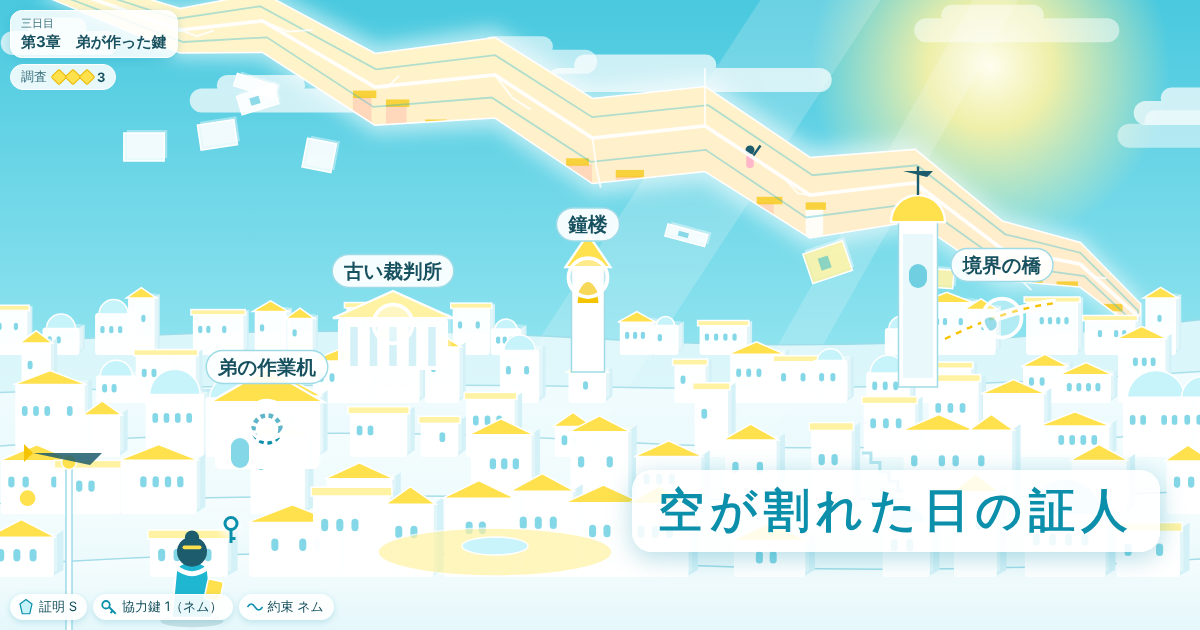
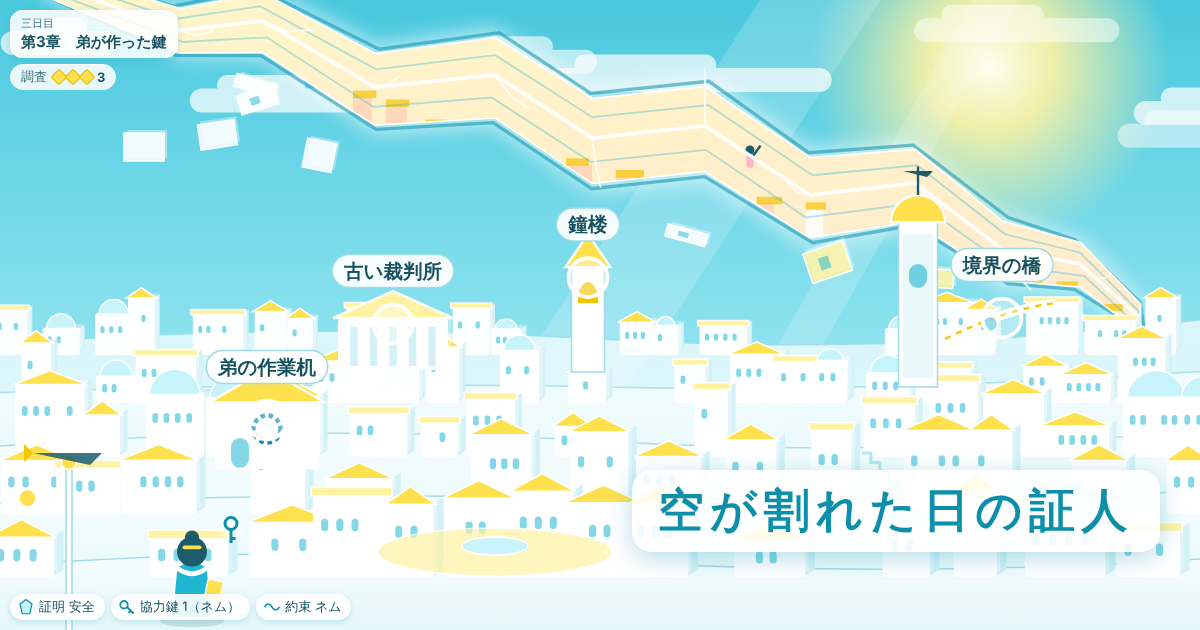
[GAME] 空が割れた日の証人（試作）：初見テストとレビューの指摘を反映
Claude-Session: https://claude.ai/code/session_01MokQnqxTndg3vLapSAqNRj

diff --git a/site/games/fractured-sky-witness/game.js b/site/games/fractured-sky-witness/game.js
@@ -67,7 +67,7 @@ function stageK() {
 function drawScene() {
   const key = S.phase === 'end' ? `vista${S.support.length}${S.coop.length}${S.broken}` : `ch${Math.min(S.ch, 3)}`;
   if (key !== bgKey) {
-    $('bgLayer').innerHTML = S.phase === 'end' ? buildVista({ support: S.support.length, coop: S.coop.length, broken: S.broken }) : buildBackground(S.ch);
+    $('bgLayer').innerHTML = S.phase === 'end' ? buildVista({ support: S.support.length, coop: S.coop.length, broken: S.broken, broken: S.broken }) : buildBackground(S.ch);
     bgKey = key;
   }
   if (S.phase === 'end') { $('ovLayer').innerHTML = ''; return; }
@@ -81,9 +81,9 @@ function drawScene() {
   }));
   $('ovLayer').innerHTML = buildOverlay({
     ch: S.ch, k: stageK(), padX: padX(), sites,
-    falling: S.ch === 1, support: S.support.length, coop: S.coop.length,
+    falling: S.ch === 1, support: S.support.length, coop: S.coop.length, broken: S.broken,
     stamp: S.phase === 'after' && S.choices[S.ch] === 'H',
-    yuiX: 128,
+    yuiX: Math.max(128, padX() + 46),
   });
   for (const el of $('ovLayer').querySelectorAll('[data-site]')) {
     const id = el.dataset.site;
@@ -107,7 +107,7 @@ function drawHud() {
 
   const chips = [];
   const proofs = Object.values(S.proofs);
-  if (proofs.length) chips.push(`<span class="chip">${ICON.proof}証明 ${proofs.join('・')}</span>`);
+  if (proofs.length) chips.push(`<span class="chip">${ICON.proof}証明 ${proofs.map((p) => PROOFS[p].name.replace('の証明', '')).join('・')}</span>`);
   if (S.support.length) chips.push(`<span class="chip">${ICON.flag}支持旗 ${S.support.length}</span>`);
   if (S.coop.length) chips.push(`<span class="chip">${ICON.key}協力鍵 ${S.coop.length}（${S.coop.map((k) => L.personName(k.from)).join('・')}）</span>`);
   const live = S.promises.filter((p) => !p.broken);
@@ -169,7 +169,7 @@ function drawTalk() {
   const done = shown >= lines.length;
   const lbl = nextLabel();
   const nb = $('nextBtn');
-  nb.hidden = done && !lbl;
+  nb.hidden = (done && !lbl) || (S.phase === 'intro' && S.ch === 1);
   nb.textContent = done ? (lbl || '') : '続きを読む ▸';
   if (S.phase === 'intro' && S.ch === 1 && done) {
     box.insertAdjacentHTML('beforeend', '<li class="narr tip"><b>▲ 上の絵の、光る空のかけらをタップ</b></li>');
@@ -198,6 +198,7 @@ function drawInv() {
   const g = settings.hint ? L.guide(S) : null;
   $('sites').innerHTML = L.siteList(S).map((x) => `<button type="button" class="site ${g?.site === x.id ? 'hinted' : ''}" data-site-btn="${x.id}" ${x.visited || x.locked ? 'disabled' : ''}>${x.visited ? '✓ ' : ''}${esc(x.name)}<small>${x.visited ? `${esc(EVIDENCE[x.ev].name)}を得た` : x.locked ? 'まずは光るかけらから' : '調べる'}</small></button>`).join('');
   const cf = $('visitConfirm');
+  $('sites').before(cf);
   if (pendingSite) {
     const site = L.siteList(S).find((x) => x.id === pendingSite);
     $('visitText').innerHTML = `<b>${esc(site.name)}</b>を調べる？<br>調査 残り ${S.actionsLeft} → ${S.actionsLeft - 1}。調べた場所には戻れない。`;
@@ -207,7 +208,7 @@ function drawInv() {
 
 function drawTrial() {
   const g = settings.hint ? L.guide(S) : null;
-  $('testis').innerHTML = L.testimonies(S).map((t) => testiHtml(t, { button: true, selected: sel.t === t.id, hinted: g?.testimony === t.id && sel.t !== t.id })).join('');
+  $('testis').innerHTML = L.testimonies(S).map((t) => testiHtml(t, { button: true, selected: sel.t === t.id, hinted: g?.testimony === t.id && !sel.t })).join('');
   const slots = document.querySelectorAll('.slot');
   slots.forEach((b, i) => {
     const id = sel.slots[i];
@@ -225,8 +226,9 @@ const OPT_ICON = { P: ICON.flag, Q: ICON.key, H: ICON.stamp };
 function drawChoice() {
   const opts = L.choiceOptions(S);
   const owner = L.secretOwner(S);
+  const sec = S.pairId ? SECRETS[S.secrets.at(-1)] : null;
   $('choiceAsk').innerHTML = S.pairId
-    ? `<b>${esc(L.personName(owner))}の秘密</b>を知った。この真実を、誰に伝える？`
+    ? `<b>${esc(L.personName(owner))}（${esc(PEOPLE[owner].role)}）の秘密「${esc(sec.title)}」</b>を知った。<br><small>${esc(sec.text)}</small><br>この真実を、誰に伝える？<br><small class="goal">支持旗・協力鍵・保留印は、四日目に選べる結末を決める。</small>`
     : '証明できなかった。記録を保留して先へ進もう。';
   $('opts').innerHTML = opts.map((o) => `<button type="button" class="opt ${pick === o.id ? 'sel' : ''}" data-opt="${o.id}" ${o.allowed ? '' : 'disabled'} aria-pressed="${pick === o.id}">
     <span class="ic" style="background:${o.id === 'P' ? '#fff3a3' : o.id === 'Q' ? '#c6f1f8' : '#eef6f8'}">${OPT_ICON[o.id]}</span>
@@ -283,6 +285,7 @@ function onSite(id) {
   pendingSite = id;
   render();
   $('visitYes').focus({ preventScroll: true });
+  $('visitConfirm').scrollIntoView({ block: 'nearest', behavior: settings.reduce ? 'auto' : 'smooth' });
 }
 
 function doVisit(id) {
@@ -343,11 +346,10 @@ function onPresent() {
     busy = true;
     slotsEl.classList.remove('ng'); slotsEl.classList.add('ok');
     sfx.connect();
-    setTimeout(() => { busy = false; slotsEl.classList.remove('ok'); render(); }, settings.reduce ? 50 : 750);
+    setTimeout(() => { busy = false; slotsEl.classList.remove('ok'); sel = { t: null, slots: [null, null] }; render(); }, settings.reduce ? 50 : 750);
   } else {
     slotsEl.classList.remove('ok'); void slotsEl.offsetWidth; slotsEl.classList.add('ng');
     sfx.miss();
-    sel.slots = [null, null];
     render();
   }
 }

diff --git a/site/games/fractured-sky-witness/logic.js b/site/games/fractured-sky-witness/logic.js
@@ -150,7 +150,7 @@ export function choiceOptions(s) {
       effects: [
         `市民の支持旗 ${s.support.length}→${s.support.length + 1}`,
         ...(s.coop.length ? [`協力鍵 ${s.coop.length}→0`] : []),
-        ...live.map((p) => `${personName(p.to)}との約束を破る（取り消せない）`),
+        ...live.map((p) => `${personName(p.to)}との約束を破る（取り消せない）：秘密を広場で話す人だと知られ、協力をやめられる`),
         ...(live.length || s.coop.length ? ['橋の結末に影響'] : []),
       ],
       warn: live.length > 0 || s.coop.length > 0,
@@ -158,7 +158,7 @@ export function choiceOptions(s) {
     {
       id: 'Q', name: '本人にだけ伝える', sub: owner ? `${ownerName}の秘密を守ると約束する` : '',
       allowed: proven, why: proven ? '' : '証明がないので、公開も約束もできない',
-      effects: [`協力鍵 ${s.coop.length}→${s.coop.length + 1}（${ownerName}から）`, `${ownerName}と約束する`, '市民の支持は増えない'],
+      effects: [`協力鍵 ${s.coop.length}→${s.coop.length + 1}（${ownerName}から）`, `${ownerName}と秘密を守る約束をする（あとで公開すると破れる）`, '市民の支持は増えない'],
       warn: false,
     },
     {
@@ -262,7 +262,8 @@ export function guide(s) {
     if (!s.visited.length) return { site: 'plaza' };
     if (!s.visited.includes('tower')) return { site: 'tower' };
   }
-  if (s.phase === 'trial' && s.evidence.includes('e1') && s.evidence.includes('e2')) return { testimony: 't1a', evs: ['e1', 'e2'] };
+  // 審理：まず証言だけ示し、1回外したら証拠の組も示す
+  if (s.phase === 'trial' && s.evidence.includes('e1') && s.evidence.includes('e2')) return { testimony: 't1a', evs: s.attemptsLeft < CONFIG.attempts ? ['e1', 'e2'] : [] };
   return null;
 }
 
@@ -275,19 +276,19 @@ export function endingOutlook(s) {
   return ENDINGS.map((e) => {
     let status; let why;
     if (e.id === 'sew') {
-      if (!hasS) { status = 'closed'; why = '第1章で安全の証明(S)を得ていない'; }
-      else if (s.holds.length) { status = 'open'; why = 'S と保留印がそろっている'; }
+      if (!hasS) { status = 'closed'; why = '第1章で「安全の証明」を得ていない'; }
+      else if (s.holds.length) { status = 'open'; why = '安全の証明と保留印がそろっている'; }
       else { status = 'near'; why = '第4章で保留すれば届く'; }
     } else if (e.id === 'bridge') {
       if (s.broken) { status = 'closed'; why = '約束を破ったので、橋は渡れない'; }
-      else if (!hasB) { status = 'closed'; why = '第3章で橋の証明(B)を得ていない'; }
-      else if (coop >= 2) { status = 'near'; why = `協力鍵${coop}つ。第4章で橋の承認(J)を立証すれば届く`; }
-      else if (coop === 1) { status = 'near'; why = '協力鍵1つ。第4章でJを立証し、もう1人と約束すれば届く'; }
+      else if (!hasB) { status = 'closed'; why = '第3章で「橋の証明」を得ていない'; }
+      else if (coop >= 2) { status = 'near'; why = `協力鍵${coop}つ。第4章で「橋の承認」を立証すれば届く`; }
+      else if (coop === 1) { status = 'near'; why = '協力鍵1つ。第4章で「橋の承認」を立証し、もう1人と約束すれば届く'; }
       else { status = 'closed'; why = '協力鍵が足りない'; }
     } else if (e.id === 'record') {
-      if (sup >= 2) { status = 'near'; why = `支持旗${sup}つ。第2章のT と第4章の記録の承認(R)で届く`; }
-      else if (sup === 1) { status = 'near'; why = '支持旗1つ。第4章でもう一度公開すれば届く（T と R も必要）'; }
-      else { status = 'far'; why = '支持旗0。第2章と第4章で公開すれば届く（試作では第2章を省略）'; }
+      if (sup >= 2) { status = 'near'; why = `支持旗${sup}つ。第2章の「真相」と第4章の「記録の承認」を立証すれば届く`; }
+      else if (sup === 1) { status = 'near'; why = '支持旗1つ。第4章でもう一度公開すれば届く（第2章の「真相」と第4章の「記録の承認」も必要）'; }
+      else { status = 'far'; why = 'あなたの選択：ここまで一度も公開していない。第2章（試作では省略）と第4章で公開すれば届く'; }
     } else { status = 'open'; why = 'いつでも選べる'; }
     return { ...e, status, why };
   });

diff --git a/site/games/fractured-sky-witness/scene.js b/site/games/fractured-sky-witness/scene.js
@@ -66,7 +66,9 @@ function sky(other) {
   s += `<g opacity=".18"><polygon points="520,0 600,0 300,460 220,460" fill="#ffffff"/><polygon points="660,0 690,0 430,460 400,460" fill="#ffffff"/></g>`;
   // 裂け目
   s += `<polygon points="${crackPoly(34, 38, 4, 5)}" fill="#ffffff" opacity=".55" filter="url(#fGlow)"/>`;
+  s += `<polygon points="${crackPoly(30, 34, 10, 4)}" fill="none" stroke="${C.cyanDeep}" stroke-opacity=".55" stroke-width="2.2"/>`;
   s += `<polygon points="${crackPoly(26, 30)}" fill="url(#gCrack)" stroke="#ffffff" stroke-width="2"/>`;
+  s += `<polygon points="${crackPoly(9, 10, 3, 6)}" fill="${C.lemon2}" opacity=".75"/>`;
   if (other) s += otherCity();
   s += `<polygon points="${crackPoly(14, 16, 6, 9)}" fill="none" stroke="${C.cyan}" stroke-opacity=".35" stroke-width="1.2"/>`;
   s += `<polyline points="${CRACK.map(([x, y]) => `${x},${y}`).join(' ')}" fill="none" stroke="#ffffff" stroke-width="2.5" opacity=".9"/>`;
@@ -323,10 +325,11 @@ export function buildOverlay(view) {
     s += `</g>`;
   }
   // ユイ と 協力鍵
-  s += yui(view.yuiX ?? 96, 392, 1.05);
+  s += yui(view.yuiX ?? 96, 392, 1.05 * Math.min(1.4, view.k || 1));
   for (let i = 0; i < view.coop; i++) {
     s += `<g class="keyfx" transform="translate(${(view.yuiX ?? 96) + 26 + i * 18} 372)"><circle r="7" fill="#fff" opacity=".7" filter="url(#fSoft)"/><circle cx="0" cy="-3" r="4" fill="none" stroke="${C.cyanDeep}" stroke-width="2"/><line x1="0" y1="1" x2="0" y2="10" stroke="${C.cyanDeep}" stroke-width="2"/><line x1="0" y1="7" x2="3" y2="7" stroke="${C.cyanDeep}" stroke-width="2"/></g>`;
   }
+  if (view.broken) s += `<g transform="translate(${(view.yuiX ?? 96) - 34} 380)"><path d="M -16 0 Q -10 -9 -3 -2" fill="none" stroke="#e5484d" stroke-width="2.6"/><path d="M 3 2 Q 10 9 16 0" fill="none" stroke="#e5484d" stroke-width="2.6"/></g>`;
   if (view.stamp) s += `<g class="stampfx" transform="translate(150 360) rotate(-12)"><rect x="-26" y="-14" width="52" height="28" rx="4" fill="none" stroke="${C.cyanDeep}" stroke-width="2.5"/><text x="0" y="6" text-anchor="middle" fill="${C.cyanDeep}" font-size="15" font-weight="700">保留</text></g>`;
   return s;
 }

diff --git a/site/games/fractured-sky-witness/story.js b/site/games/fractured-sky-witness/story.js
@@ -65,7 +65,7 @@ export const CHAPTERS = [
     ],
     testimonies: [
       { id: 't1a', who: 'nem', claim: '今朝は風が止まっていた。空は自然に割れたの。', mark: '風が止まっていた', hint: '風の向きの記録があれば、確かめられそう。' },
-      { id: 't1b', who: 'ol', claim: '空は外から割られた。向こう側からの攻撃だ。', mark: '外から割られた', hint: 'どちらへ力がかかったか、形を見れば分かりそう。' },
+      { id: 't1b', who: 'ol', claim: '空は外から割られた。向こう側からの攻撃だ。', mark: '外から割られた', hint: '屋根の金具の曲がり方や、街の気圧が分かれば崩せそう。' },
     ],
     pairs: [
       {
@@ -145,7 +145,7 @@ export const CHAPTERS = [
     intro: [
       { who: null, text: '三日目。裂け目の向こうに、もうひとつの街の屋根が見えている。' },
       { who: 'rito', text: '弟のカイが、昨夜から帰ってこない。……あいつは何も悪くない。' },
-      { who: 'ol', text: 'カイが空を割る道具を作った。証拠は揃っている。審理を急ぐ。' },
+      { who: 'ol', text: '修復師リトの弟カイが、空を割る道具を作った。証拠は揃っている。' },
     ],
     // 前章までの選択で、最後の1行（案内してくれる人）が変わる
     introGuide: {
@@ -189,7 +189,7 @@ export const CHAPTERS = [
       },
     ],
     testimonies: [
-      { id: 't3a', who: 'ol', claim: 'カイは空を壊す武器を作った。だから空は割れた。', mark: '空を壊す武器', hint: '作ったものが「何に合うのか」が分かれば。' },
+      { id: 't3a', who: 'ol', claim: 'リトの弟カイが、空を壊す武器を作った。', mark: '空を壊す武器', hint: '作ったものが「何に合うのか」が分かれば。' },
       { id: 't3b', who: 'nem', claim: '向こうの街は侵略者よ。通路はすぐ閉じるべき。', mark: '侵略者', hint: '昔の二つの街の関係が分かれば。' },
     ],
     pairs: [

diff --git a/site/games/fractured-sky-witness/style.css b/site/games/fractured-sky-witness/style.css
@@ -194,7 +194,7 @@ div.testi { cursor: default; }
 
 @media (max-width: 860px) {
   .app { grid-template-columns: minmax(0, 1fr); grid-template-areas: "stage" "panel" "shelf"; padding: 8px; gap: 8px; }
-  .stage { border-radius: 14px; aspect-ratio: 390 / 290; }
+  .stage { border-radius: 14px; aspect-ratio: 390 / 330; }
   .chap b { font-size: 13px; }
   .chap small { font-size: 10px; }
   .chap { padding: 3px 8px; }
@@ -220,3 +220,5 @@ div.testi { cursor: default; }
 .cardInfo { min-height: 24px; bottom: 3px; }
 @media (max-width: 860px) { .card { width: calc(50% - 4px); min-width: 0; } }
 .og .logo { color: #0b8fab; background: rgba(255,255,255,.88); padding: 10px 26px; border-radius: 20px; text-shadow: none; box-shadow: 0 6px 24px rgba(11,143,171,.3); }
+.ask small { font-size: 14px; color: var(--ink2); }
+.ask small.goal { color: var(--cyanDeep); }

diff --git a/site/games/fractured-sky-witness/index.html b/site/games/fractured-sky-witness/index.html
@@ -70,7 +70,7 @@
         </div>
         <p class="feedback" id="feedback" hidden></p>
         <div class="row">
-          <button type="button" id="giveUpBtn" class="ghost small">立証せず進む</button>
+          <button type="button" id="giveUpBtn" class="ghost small">立証せず進む（証明なし）</button>
           <button type="button" id="presentBtn" class="primary" disabled>提示する</button>
         </div>
       </div>
